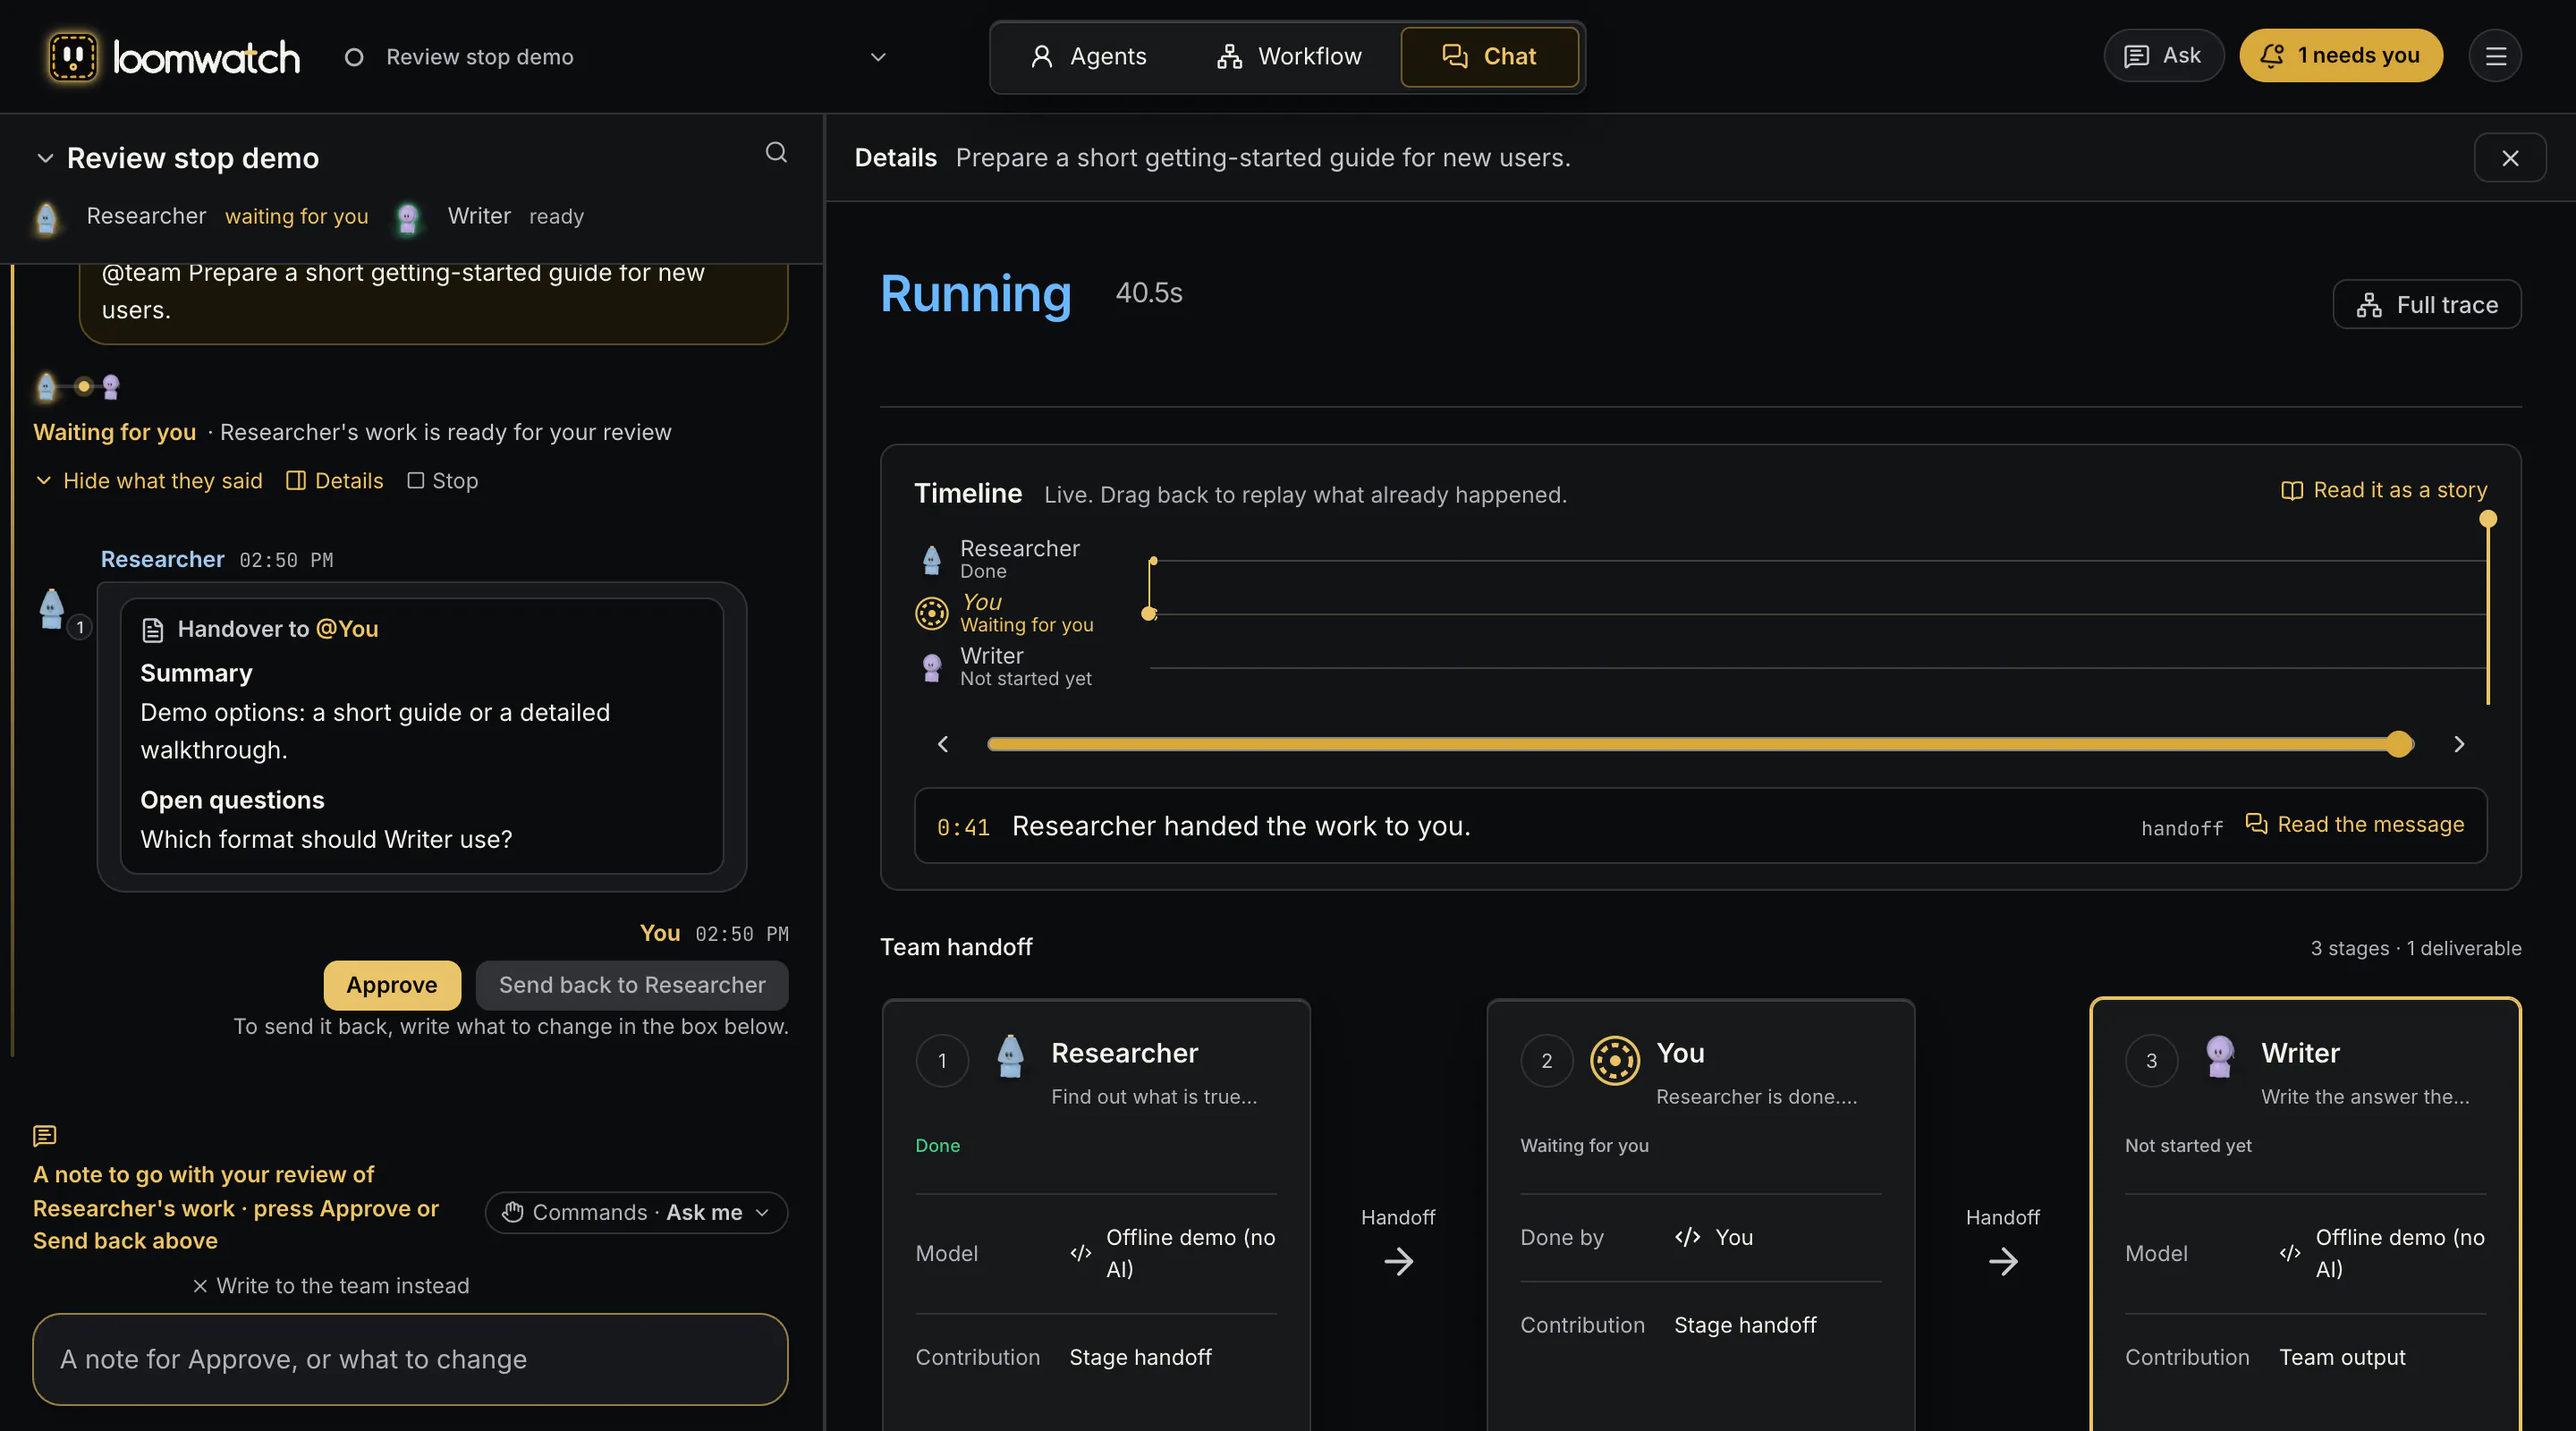
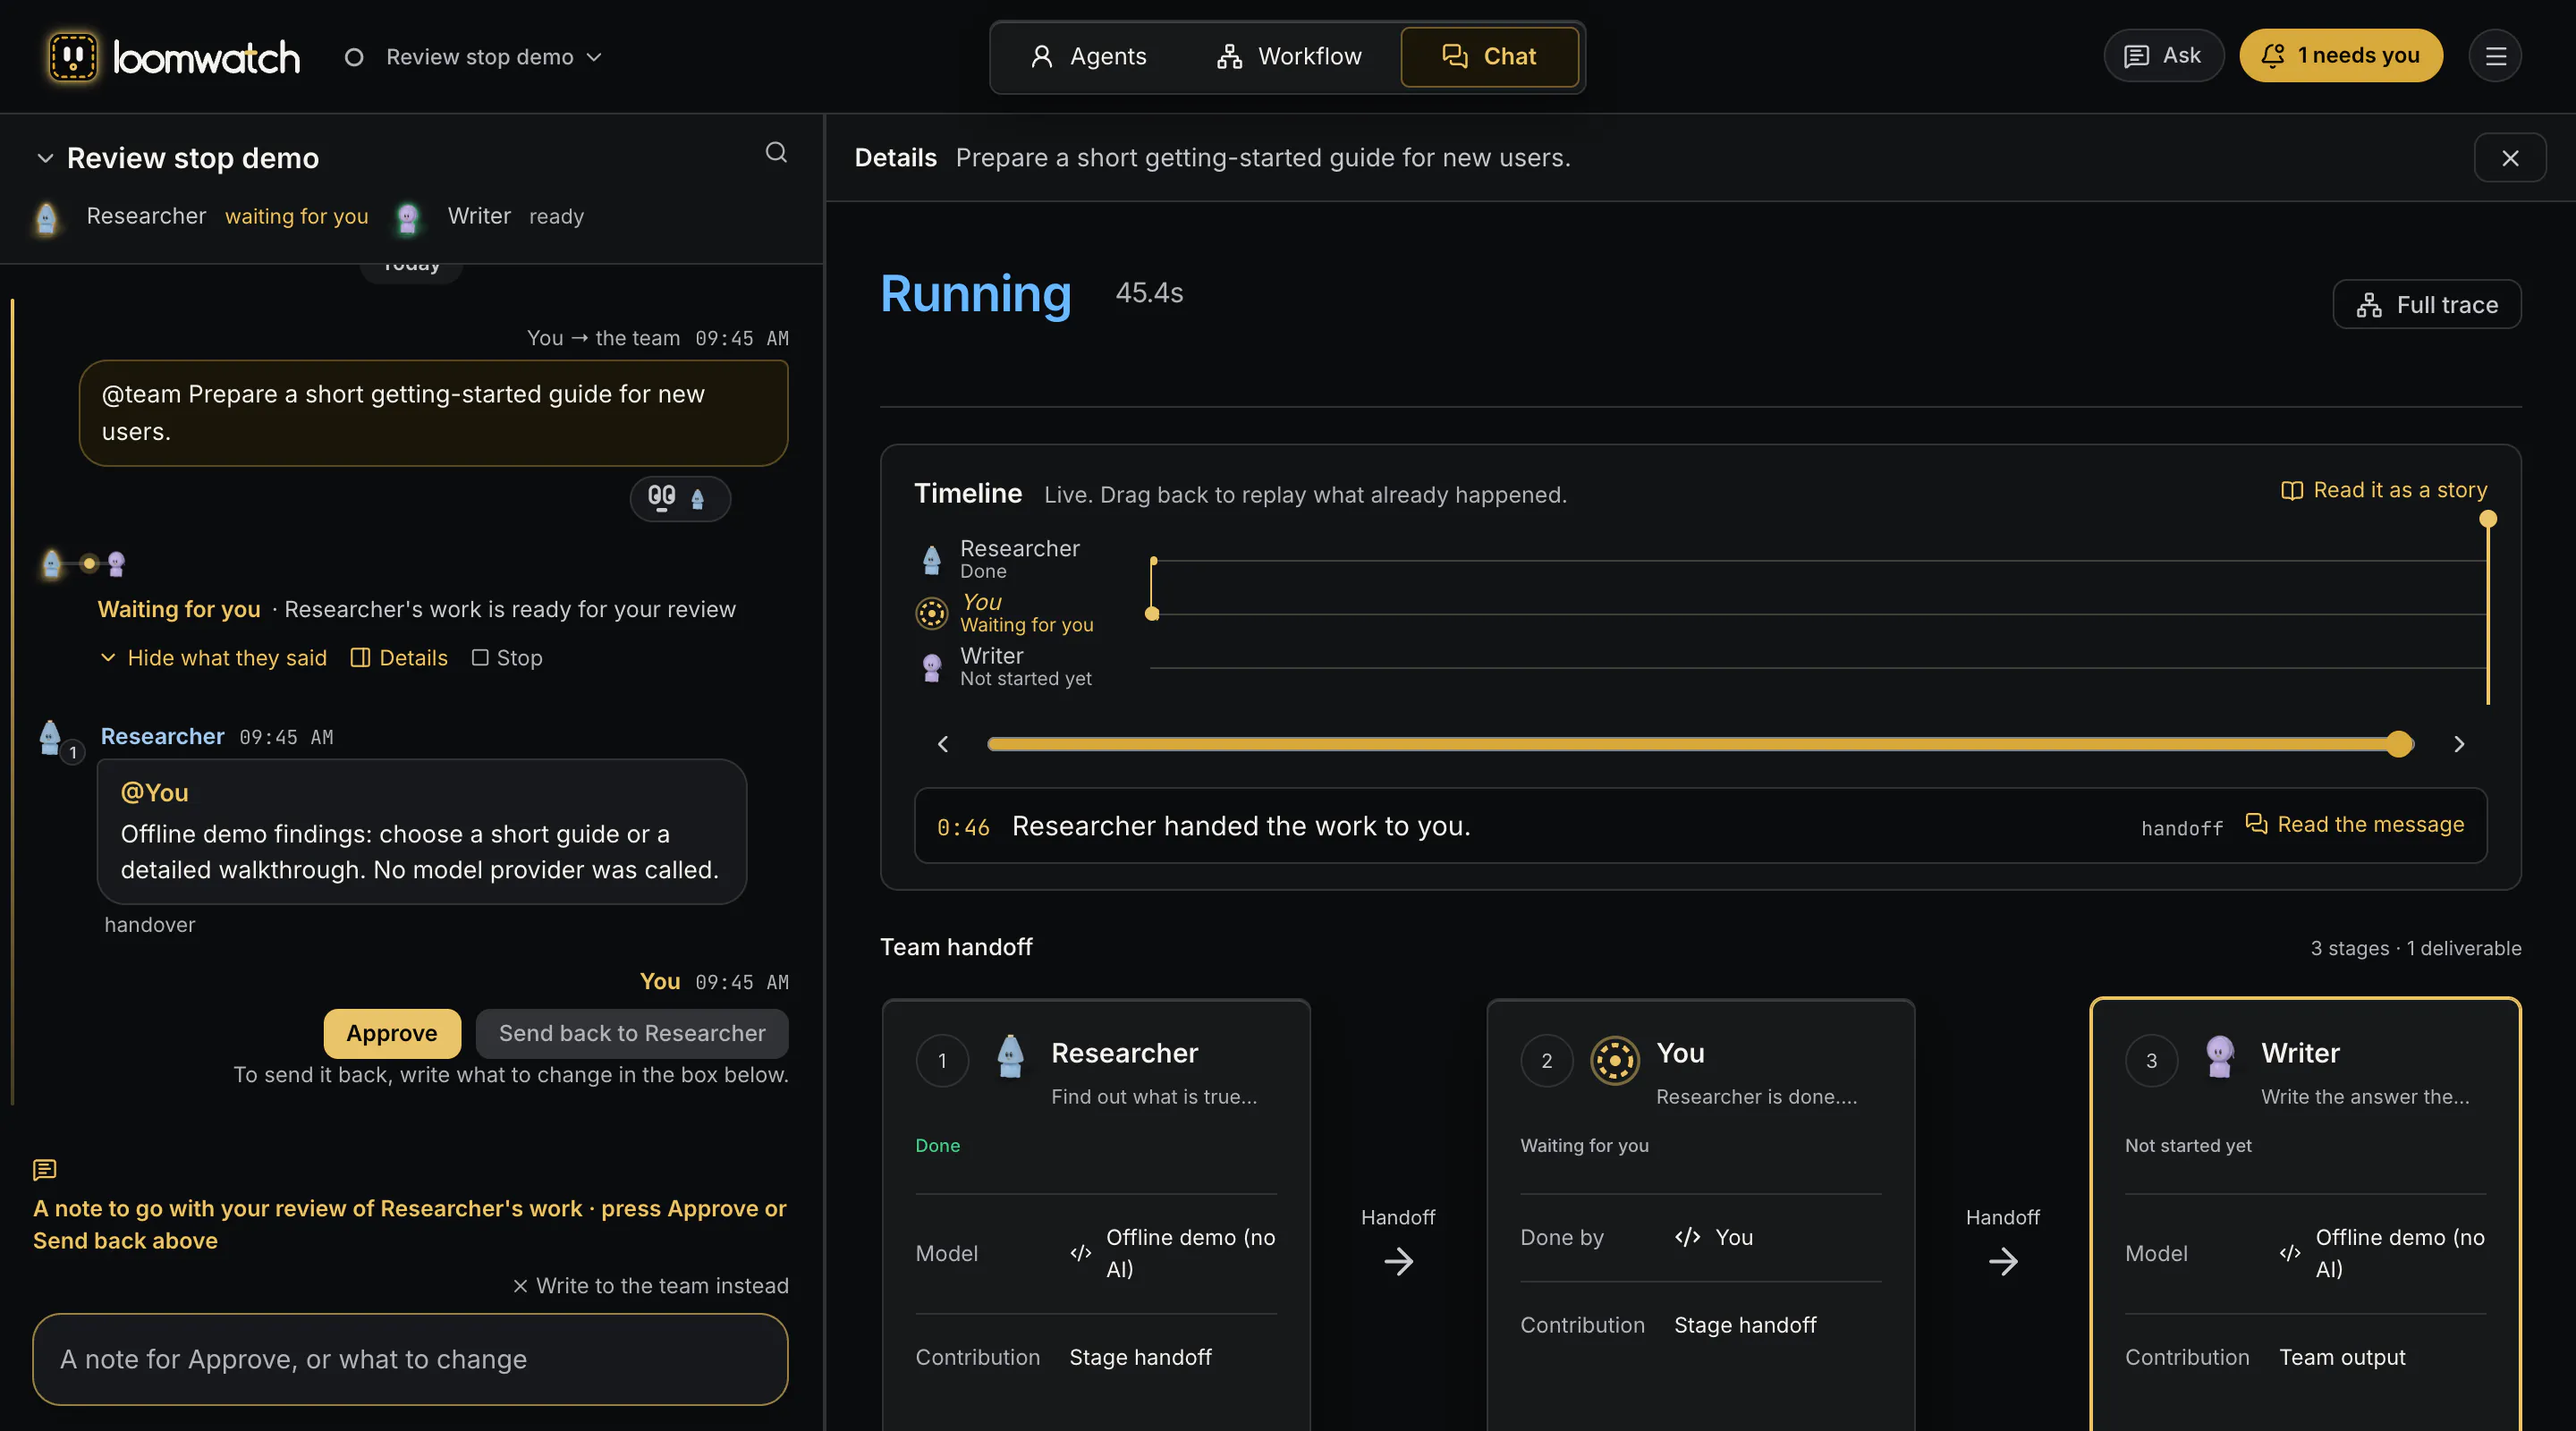
docs(readme): retake the team chat shot without the row above the message box (#180)
The chat shot (site/assets/app/chat-{light,dark}.webp) still showed the
"Commands · Ask me" chip that #177 removed. Retaken from a throwaway trial of
main at 0e475ff2: the offline demo team, the same request, Researcher's
handover waiting for Approve or Send back, Details beside the chat. Same size
and format as before (2880x1600 webp, cwebp q80). The README alt text drops
the sentence about the chip.

diff --git a/README.md b/README.md
@@ -395,7 +395,7 @@ you built, then add, connect and rename agents to match. To run a team on a sche
 <td align="center">
 <picture>
   <source media="(prefers-color-scheme: dark)" srcset="site/assets/app/chat-dark.webp">
-  <img src="site/assets/app/chat-light.webp" alt="A team's Chat tab: the request @team Prepare a short getting-started guide for new users, then Researcher's handover to You, with Approve and Send back to Researcher waiting under it. Beside the chat, Details shows the live timeline with a replay slider and the team handoff, stage by stage, with the model each agent runs on. Commands · Ask me sits beside the message box.">
+  <img src="site/assets/app/chat-light.webp" alt="A team's Chat tab: the request @team Prepare a short getting-started guide for new users, then Researcher's handover to You, with Approve and Send back to Researcher waiting under it. Beside the chat, Details shows the live timeline with a replay slider and the team handoff, stage by stage, with the model each agent runs on.">
 </picture>
 <br><sub><strong>Chat.</strong> What the agents say to each other, your review, and the record one pane away in Details.</sub>
 </td>
